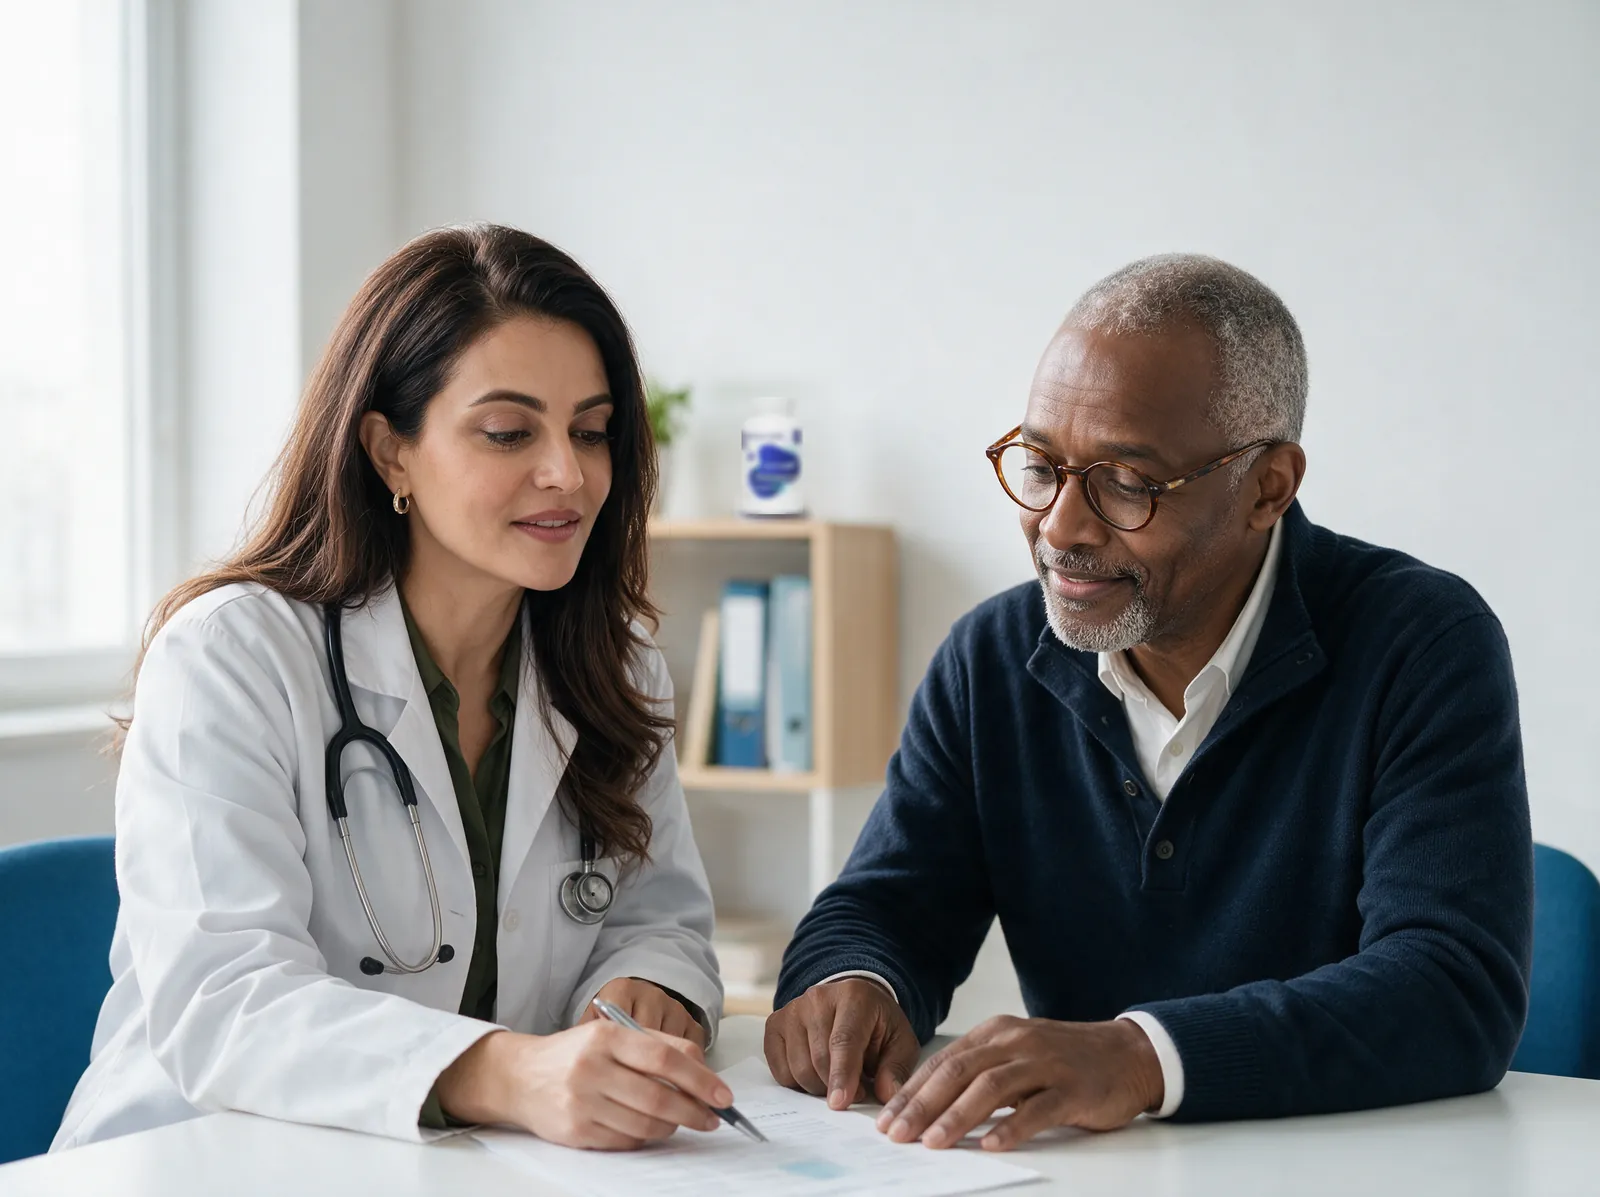
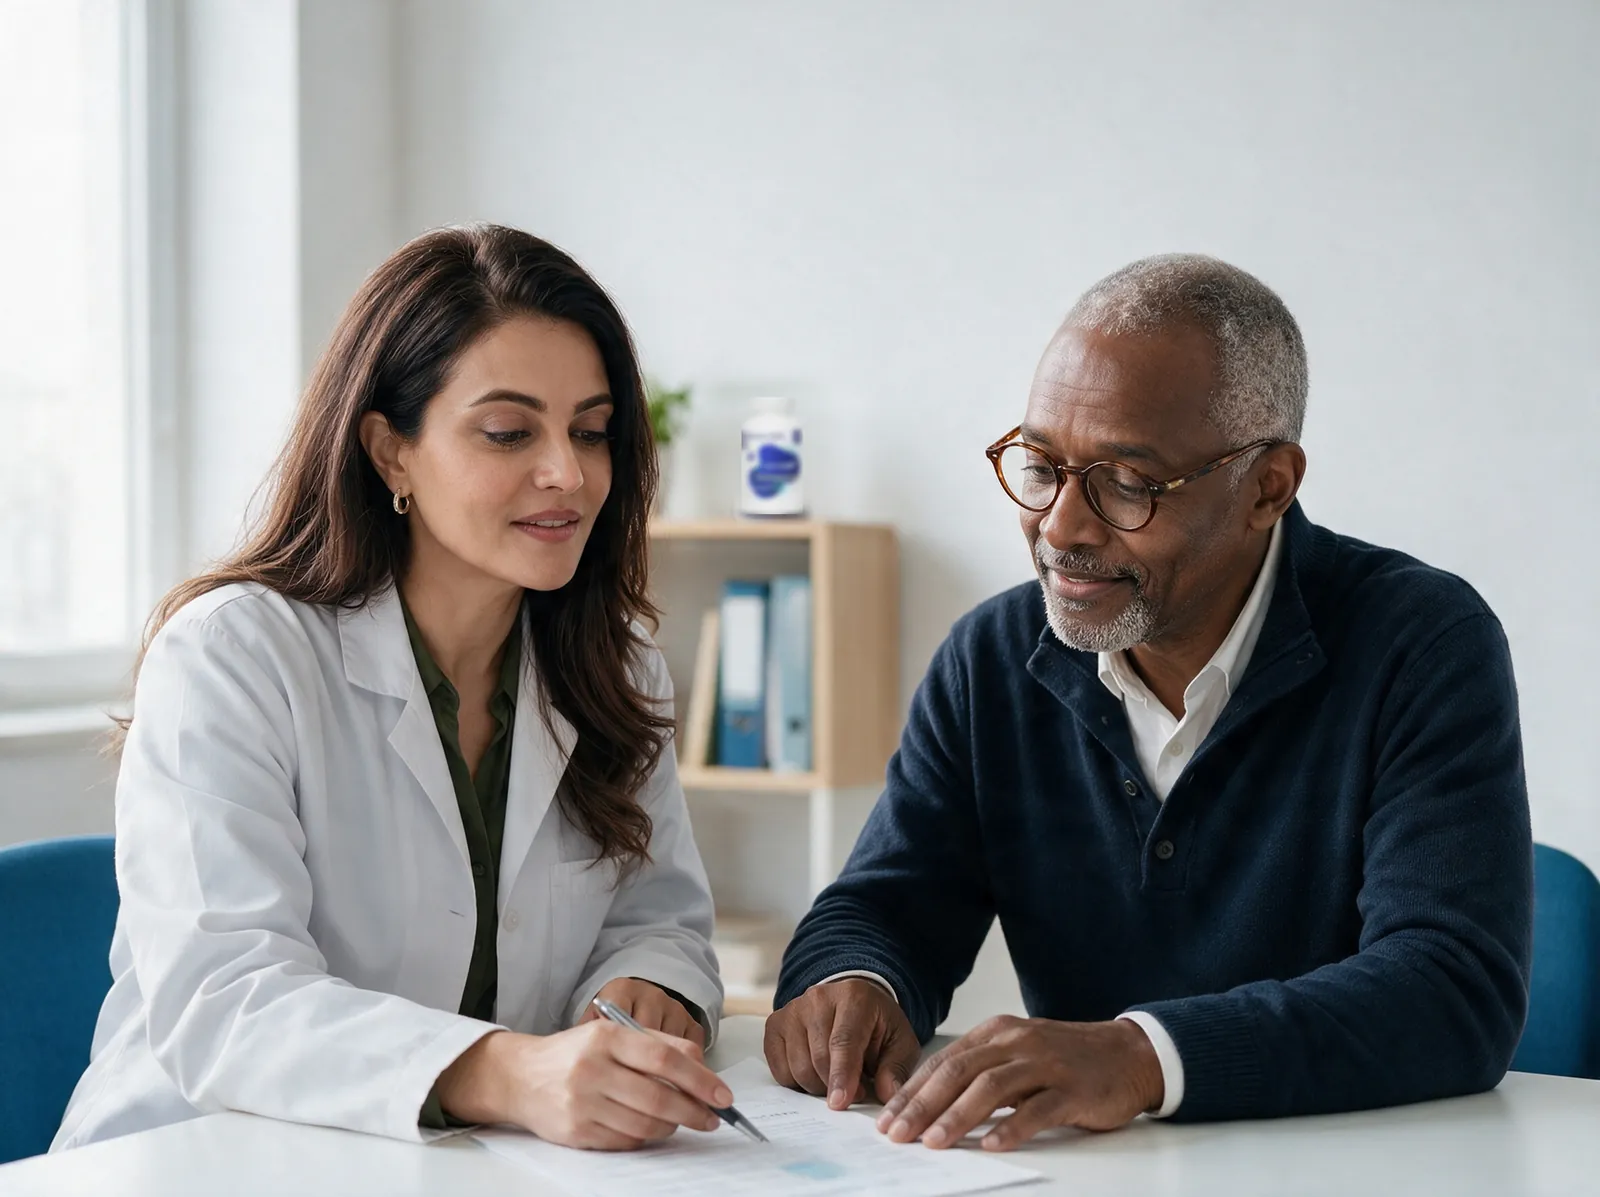
Why photo without the stethoscope; "Who can benefit from taking Memowell®?"
The research-bench photo is edited in place (Seedream instruction edit) to
remove the stethoscope a neurology researcher would not wear; the official
bottle cutout is re-composited with the same parameters. The audience page
and home section are retitled per the client's Persian wording; the menu
and footer use the short label "Who benefits". Brief, README and design
record updated.

Claude-Session: https://claude.ai/code/session_01UKcq7tDGMShsF1hn9WbGvq

Changed region(s): [[0.1875, 0.4946, 0.2812, 0.8346], [0.3438, 0.68, 0.4062, 0.7728]]

diff --git a/memowell/brief/BRIEF.md b/memowell/brief/BRIEF.md
@@ -216,7 +216,7 @@ The client supplied four comments. **They cannot be used as testimonials**: all 
 |---|---|
 | `/` | Home |
 | `/memowell` | What Memowell is |
-| `/who-its-for` | Who it's for |
+| `/who-its-for` | Who benefits (page: Who can benefit from taking Memowell®?) |
 | `/science` | For healthcare professionals (the plain-language science page was retired 2026-11-21, client direction: the general audience reads the home page) |
 | `/memory-health` | Blog: index plus article template |
 | `/about` | Kondor Pharma |
@@ -231,7 +231,7 @@ All three language versions share the same structure. What changes between them 
 | Item | Target | Children |
 |---|---|---|
 | Memowell | `/memowell` | none |
-| Who it's for | `/who-its-for` | none |
+| Who benefits | `/who-its-for` | none |
 | Science | `/science` | none (professional section; was a dropdown until 2026-11-21) |
 | Memory health | `/memory-health` | none |
 | About ▾ | `/about` | Kondor Pharma (`/about`) · Availability (`/about/availability`) · Partners (`/about/partners`) · Contact (`/contact`) |
@@ -306,7 +306,7 @@ Meta description: `Memowell® is a dietary supplement for memory and cognitive h
 >
 > Memowell® is a dietary supplement for memory and cognitive health, made by Kondor Pharma.
 >
-> [Who it's for] [What the research found]
+> [Who benefits] [What the research found]
 >
 > Licensed by Health Canada · NPN 80107357
 
@@ -348,8 +348,8 @@ Meta description: `Memowell® is a dietary supplement for memory and cognitive h
 
 *Note:* the catalogue's "about three times similar formulations" is deliberately omitted until the scientific officer rules on that comparison.
 
-**4. Who it's for (four cards)**
-> ## Who it's for
+**4. Who it's for (five cards)**
+> ## Who can benefit from taking Memowell®?
 >
 > Five situations come up again and again in research on memory. Find the one closest to yours and read what research says about it, in plain language.
 >
@@ -548,11 +548,13 @@ The PDF is built from this copy by `scripts/build-summary-pdf.mjs` and linked fr
 ---
 
 ### WHO IT'S FOR `/who-its-for`
-Meta title: `Who Memowell® is for | Memowell®`
+*Note (2026-11-22, client direction):* the client found the title "Who it's for" unprofessional and gave the Persian «مصرف Memowell برای چه کسانی مفید است؟»; its English equivalent, "Who can benefit from taking Memowell®?", is the page title and the home §4 heading. The navigation and footer label is the short "Who benefits".
+
+Meta title: `Who can benefit from taking Memowell®? | Memowell®`
 Meta description: `Who Memowell® is for, in the five groups from Kondor Pharma's product document: people who value memory, people past mid-life, relatives of people with Alzheimer's disease, people with mild cognitive impairment, and people with Alzheimer's disease.`
 
 **Introduction**
-> # Who Memowell® is for
+> # Who can benefit from taking Memowell®?
 >
 > Five situations come up repeatedly in research on memory. Reading your own situation into one of them is not a diagnosis — that conversation belongs with a doctor. But it will tell you whether the research is relevant to you at all.
 

diff --git a/memowell/README.md b/memowell/README.md
@@ -67,7 +67,7 @@ Full record: `docs/design-brief.md` → "Version 2".
    - reduced motion / no JavaScript: the five chapters listed beside the closed capsule; without WebGL the SVG capsule poster stays.
 
    It shows the "difference from ordinary frankincense" using only the copy's own words. No body, bloodstream, brain or mechanism appears, and nothing is tied to a memory outcome.
-2. **Who it's for** (formerly "Who it was studied in"): four large numbered reading stages beside an illustrative photo contact sheet. On wide, tall screens the gallery stays beside the text and re-composes to feature the current context. The client removed the photo number badges and the numbered navigation beneath the gallery. The text stays in native vertical flow. Phones show each photograph below its corresponding group; short screens and reduced motion use the static composition.
+2. **Who can benefit from taking Memowell®?** (formerly "Who it's for", and before that "Who it was studied in"): four large numbered reading stages beside an illustrative photo contact sheet. On wide, tall screens the gallery stays beside the text and re-composes to feature the current context. The client removed the photo number badges and the numbered navigation beneath the gallery. The text stays in native vertical flow. Phones show each photograph below its corresponding group; short screens and reduced motion use the static composition.
 3. **Evidence:** study context and its source sit beside the result sentence, which lights up word by word. "3.11 points higher on MMSE" resolves in cyan inside its full sentence.
 4. **One capsule with each of the three main meals:** a capsule drops in and splits onto three plates.
 5. **Hero film (v7, Kondor Brain):** a silent 15-second Seedance 2.5 film behind the approved hero copy — "the wall of names": a grandmother shows her granddaughter the family photo wall, tells their stories, checks one name on the back of a frame, and they hang a new photo of the two of them (scenario and direction in `docs/kondor-brain/hero-film-direction-v3.md`, approved by the client; it replaced the v2 market film, which the client rejected). Concept: meaningful connection. No product, no text in frame, no headscarves (client instruction). It plays once and holds its last frame; a pause/play button sits in the hero corner (WCAG 2.2.2). Reduced motion never starts it; the poster is the last frame. Phones load a 720p file; WebM (VP9) first, MP4 (H.264) for Safari. `[LOCAL REGULATORY REVIEW REQUIRED]`: AI-generated people need Kondor sign-off. The two button labels ("Pause video", "Play video") are new interface words in CMS → Shared site text.

diff --git a/memowell/docs/design-brief.md b/memowell/docs/design-brief.md
@@ -727,3 +727,8 @@ Request: the two sections had been built from the same template (a coloured blob
 ## 2026-11-22 — Home §2 rewritten: inflammation and memory
 
 Client direction: the home "why" section speaks of inflammation's effect on **memory**, not on "the nervous system" in the title, and does not name Alzheimer's disease. The product's main audience is people at risk and in the stages before the disease; a reader who meets "Alzheimer's disease" in the first line decides "not me" and stops. New heading: *One thing researchers are looking at: inflammation and memory*; body opens "Researchers have linked persistent inflammation in the nervous system to changes in memory…", keeps the three highlighted moments and the closing "active research, not a settled answer" line. The disease is still named in full on `/who-its-for`, `/science` and in the blog. The title split in `Home.astro` now accepts any subject after the fixed context phrase. Brief Part 4 HOME §2 updated with a dated note.
+
+## 2026-11-22 — Why photo: stethoscope removed; "Who it's for" retitled
+
+- **Photo.** The client pointed out that a neurology researcher does not wear a stethoscope. The generated scene was edited in place on Seedream 5.0 Pro (instruction edit, `is_inpaint`, the clean source as the single reference): the stethoscope removed, everything else held (same people, poses, light, shelves; mean pixel difference about 5/255). The official bottle cutout was then re-composited with the same parameters as before (`BOTTLE="1135,756,172"`, tone 0.97/0.9, blur 4.5). Same files `researcher-lab-{640,1024,1600}.webp`, same focus. The bottle is still never generated.
+- **Title.** The client found "Who it's for" unprofessional and gave «مصرف Memowell برای چه کسانی مفید است؟». Its English equivalent, **"Who can benefit from taking Memowell®?"**, is now the `/who-its-for` page title (H1 and meta title) and the home §4 heading (accent on "Memowell®"). The navigation, footer and hero button use the short label **"Who benefits"**, since the full question does not fit a menu. Brief Part 4 updated with a dated note.
